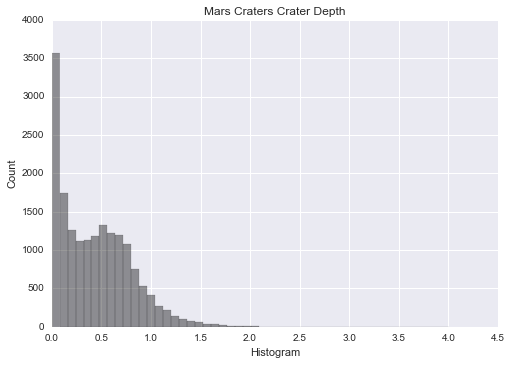
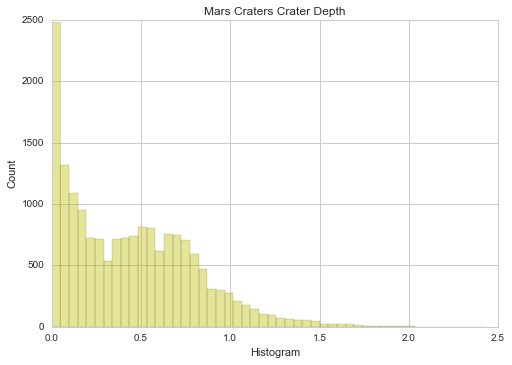
Update py code and graph output.

diff --git a/marsPython.py b/marsPython.py
@@ -32,22 +32,34 @@ print('Summary, Original Data.')
 ### Basic information.
 print('Number of observations: ', len(data)) 
 print('Number of variables: ', len(data.columns))
+print()
 
 #### Depth.
 depC=data['DEPTH_RIMFLOOR_TOPOG'].value_counts().sort_index() 
-print('Crater Depth, Number of Unique Values: ', len(depC))
+print('Crater Depth')
+print('Number of Unique Values: ', len(depC))
+depS=data['DEPTH_RIMFLOOR_TOPOG'].describe()
+print(depS)
 
 #### Ejecta morphology.
 me1C=data['MORPHOLOGY_EJECTA_1'].value_counts().sort_index()
-print('Ejecta Morphology 1 Classification, Number of Unique Values: ', len(me1C))
+print('Ejecta Morphology 1 Classification')
+me1S=data['MORPHOLOGY_EJECTA_1'].describe()
+print(me1S)
 
 #### Latitiude.
 latC=data['LATITUDE_CIRCLE_IMAGE'].value_counts().sort_index()
-print('Latitude, Number of Unique Values: ', len(latC))
+print('Latitude')
+print('Number of Unique Values: ', len(latC))
+latS=data['LATITUDE_CIRCLE_IMAGE'].describe()
+print(latS)
 
 #### Longitude.
 lonC=data['LONGITUDE_CIRCLE_IMAGE'].value_counts().sort_index()
-print('Longitude, Number of Unique Values: ', len(lonC))
+print('Longitude')
+print('Number of Unique Values: ', len(lonC))
+lonS=data['LONGITUDE_CIRCLE_IMAGE'].describe()
+print(lonS)
 print()
 
 
@@ -57,105 +69,113 @@ print()
 
 #### Exlude craters with non-empty MORPHOLOGY_EJECTA_1.
 print('Subset, non-empty Ejecta Morphology')
-subme=data[data['MORPHOLOGY_EJECTA_1']!=" "]
-print('Number of observations: ', len(subme))
-subme_me1C=subme['MORPHOLOGY_EJECTA_1'].value_counts().sort_index()
-print('Number of Unique Values: ', len(subme_me1C))
-print()
-print(subme_me1C)
+sub=data[data['MORPHOLOGY_EJECTA_1']!=" "]
+sub_me1S=sub['MORPHOLOGY_EJECTA_1'].describe()
+print(sub_me1S)
 print()
 
 #### Collapse morphology catagories to first entry before the first '/'.
-subme2=subme.copy()
+sub2=sub.copy()
 print('Subset, Aggregated non-empty Ejecta Morphology')
-subme2['MORPHOLOGY_EJECTA_1']=subme2['MORPHOLOGY_EJECTA_1'].str.replace('/\D+', '', case=False)
-print('Number of observations: ', len(subme2))
-subme2_me1C=subme2['MORPHOLOGY_EJECTA_1'].value_counts().sort_index()
-print('Number of Unique Values: ', len(subme2_me1C))
+sub2['MORPHOLOGY_EJECTA_1']=sub2['MORPHOLOGY_EJECTA_1'].str.replace('/\D+', '', case=False)
+sub2_me1S=sub2['MORPHOLOGY_EJECTA_1'].describe()
+print(sub2_me1S)
 print()
-print(subme2_me1C)
+sub2_me1C=sub2['MORPHOLOGY_EJECTA_1'].value_counts().sort_index()
+print(sub2_me1C)
 print()
 
 #### Exlude MORPHOLOGY_EJECTA_1='Rd' (approximately 60% of the non-empty sample).
-subme3=subme2.copy()
+sub3=sub2.copy()
 print('Subset, Selected, Aggregated non-empty Ejecta Morphology 1 Classification')
-subme3=subme3[subme3['MORPHOLOGY_EJECTA_1']!="Rd"]
+sub3=sub3[sub3['MORPHOLOGY_EJECTA_1']!="Rd"]
 #### Exclude classifications with frequencies < 10.
-subme3=subme3[subme3['MORPHOLOGY_EJECTA_1']!="DLEPSPd"]
-subme3=subme3[subme3['MORPHOLOGY_EJECTA_1']!="DLEPd"]
-subme3=subme3[subme3['MORPHOLOGY_EJECTA_1']!="DLERCPd"]
-subme3=subme3[subme3['MORPHOLOGY_EJECTA_1']!="DLERSRd"]
-subme3=subme3[subme3['MORPHOLOGY_EJECTA_1']!="DLSPC"]
-subme3=subme3[subme3['MORPHOLOGY_EJECTA_1']!="MLERSRd"]
-subme3=subme3[subme3['MORPHOLOGY_EJECTA_1']!="Pd"]
-subme3=subme3[subme3['MORPHOLOGY_EJECTA_1']!="RD"]
-subme3=subme3[subme3['MORPHOLOGY_EJECTA_1']!="SLEPCRd"]
-subme3=subme3[subme3['MORPHOLOGY_EJECTA_1']!="SLEPSRd"]
-subme3=subme3[subme3['MORPHOLOGY_EJECTA_1']!="SLERSRd"]
-subme3=subme3[subme3['MORPHOLOGY_EJECTA_1']!="SLErS"]
-print('Number of observations: ', len(subme3))
-subme3_me1C=subme3['MORPHOLOGY_EJECTA_1'].value_counts().sort_index()
-subme3_me1P=subme3['MORPHOLOGY_EJECTA_1'].value_counts(dropna = False, normalize = True).sort_index()
-print('Number of Unique Values: ', len(subme3_me1C))
+sub3=sub3[sub3['MORPHOLOGY_EJECTA_1']!="DLEPSPd"]
+sub3=sub3[sub3['MORPHOLOGY_EJECTA_1']!="DLEPd"]
+sub3=sub3[sub3['MORPHOLOGY_EJECTA_1']!="DLERCPd"]
+sub3=sub3[sub3['MORPHOLOGY_EJECTA_1']!="DLERSRd"]
+sub3=sub3[sub3['MORPHOLOGY_EJECTA_1']!="DLSPC"]
+sub3=sub3[sub3['MORPHOLOGY_EJECTA_1']!="MLERSRd"]
+sub3=sub3[sub3['MORPHOLOGY_EJECTA_1']!="Pd"]
+sub3=sub3[sub3['MORPHOLOGY_EJECTA_1']!="RD"]
+sub3=sub3[sub3['MORPHOLOGY_EJECTA_1']!="SLEPCRd"]
+sub3=sub3[sub3['MORPHOLOGY_EJECTA_1']!="SLEPSRd"]
+sub3=sub3[sub3['MORPHOLOGY_EJECTA_1']!="SLERSRd"]
+sub3=sub3[sub3['MORPHOLOGY_EJECTA_1']!="SLErS"]
+sub3_me1S=sub3['MORPHOLOGY_EJECTA_1'].describe()
+print(sub3_me1S)
 print()
-print(subme3_me1C)
-print()
-print(subme3_me1P)
+sub3_me1C=sub3['MORPHOLOGY_EJECTA_1'].value_counts().sort_index()
+print(sub3_me1C)
 print()
 
+#### Exclude crater depths > 2.5.
+sub4=sub3.copy()
+sub4=sub4[(sub4['DEPTH_RIMFLOOR_TOPOG']<=2.5)]
+
+#### Summary.
+print('Summary of Cleaned Data')
+print('Selected, Aggregated non-empty Ejecta Morphology 1 Classification')
+print('Crater Depth <= 2.5')
+sub4S=sub4.describe()
+print(sub4S)
+sub4_me1S=sub4['MORPHOLOGY_EJECTA_1'].describe()
+print(sub4_me1S)
+print()
 
 ## 4. Graphing data, univariate analysis. 
-#sb.palplot(sb.cubehelix_palette(18, start=.5, rot=-.75))
-#sb.palplot(sb.color_palette("coolwarm", 18))
-#sb.palplot(sb.diverging_palette(220, 20, n=18))
-#sb.palplot(sb.color_palette("RdBu", n_colors=18))
-#sb.set_palette("BrBG", n_colors=18)
+sb.set(style="whitegrid")
+sb.set_palette(sb.cubehelix_palette(18, start=3, rot=-.75))
 
 ### Aggregated ejecta morphology.
-subme3['MORPHOLOGY_EJECTA_1']=subme3['MORPHOLOGY_EJECTA_1'].astype('category')
-sb.countplot(y='MORPHOLOGY_EJECTA_1', data=subme3)
+sub4['MORPHOLOGY_EJECTA_1']=sub4['MORPHOLOGY_EJECTA_1'].astype('category')
+sb.countplot(y='MORPHOLOGY_EJECTA_1', data=sub4)
 plt.xlabel('Count')
 plt.ylabel('Ejecta Morphology')
 plt.title('Mars Craters Ejecta Morphology Classification')
+plt.show()
 print()
 
 ### Crater depth.
-sb.distplot(subme3['DEPTH_RIMFLOOR_TOPOG'], kde=False, color='k')
+sb.distplot(sub4['DEPTH_RIMFLOOR_TOPOG'], kde=False, color="y")
 plt.xlabel('Histogram')
 plt.ylabel('Count')
 plt.title('Mars Craters Crater Depth')
+plt.show()
 print()
 
 ### Latitude.
-sb.distplot(subme3['LATITUDE_CIRCLE_IMAGE'], kde=False, color='k')
+sb.distplot(sub4['LATITUDE_CIRCLE_IMAGE'], kde=True, color="y")
 plt.xlabel('Density Plot')
 plt.title('Mars Craters Latitude')
+plt.show()
 print()
 
 
 ## 5. Graphing data, bivariate analysis.
-
-### Factorplot trial...
-#sb.factorplot(x='LATITUDE_CIRCLE_IMAGE', y='DEPTH_RIMFLOOR_TOPOG', col='MORPHOLOGY_EJECTA_1', data=subme3) 
-
+    
 ### Aggregated ejecta morphology and crater depth.
-sb.boxplot(x='DEPTH_RIMFLOOR_TOPOG', y='MORPHOLOGY_EJECTA_1', data=subme3)
+sb.boxplot(x='DEPTH_RIMFLOOR_TOPOG', y='MORPHOLOGY_EJECTA_1', data=sub4)
 plt.xlabel('Crater Depth')
 plt.ylabel('Ejecta Morphology')
 plt.title('Mars Craters Crater Depth by Ejecta Morphology Classification')
+plt.show()
 print()
 
 ### Aggregated ejecta morphologyh and latitude.
-sb.boxplot(x='LATITUDE_CIRCLE_IMAGE', y='MORPHOLOGY_EJECTA_1', data=subme3)
+sb.boxplot(x='LATITUDE_CIRCLE_IMAGE', y='MORPHOLOGY_EJECTA_1', data=sub4)
 plt.xlabel('Latitude')
 plt.ylabel('Ejecta Morphology')
 plt.title('Latitude by Ejecta Morphology Classification')
+plt.show()
 print()
 
 ### Crater depth and latitude.
-sb.jointplot(x='LATITUDE_CIRCLE_IMAGE', y='DEPTH_RIMFLOOR_TOPOG',kind='hex', data=subme3)
+sb.jointplot(x='LATITUDE_CIRCLE_IMAGE', y='DEPTH_RIMFLOOR_TOPOG',kind='hex', data=sub4)
+plt.show()
 print()
 
 ### Longitude and latitude.
-sb.jointplot(x='LONGITUDE_CIRCLE_IMAGE', y='LATITUDE_CIRCLE_IMAGE', kind='hex', data=subme3)
+sb.jointplot(x='LONGITUDE_CIRCLE_IMAGE', y='LATITUDE_CIRCLE_IMAGE', kind='hex', data=sub4)
+plt.show()
 print()
